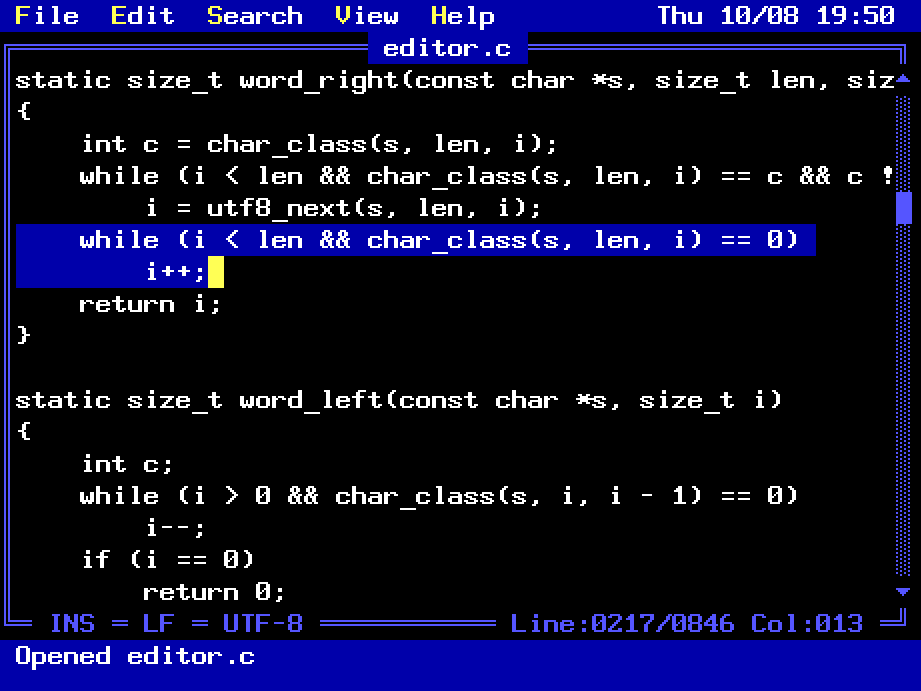
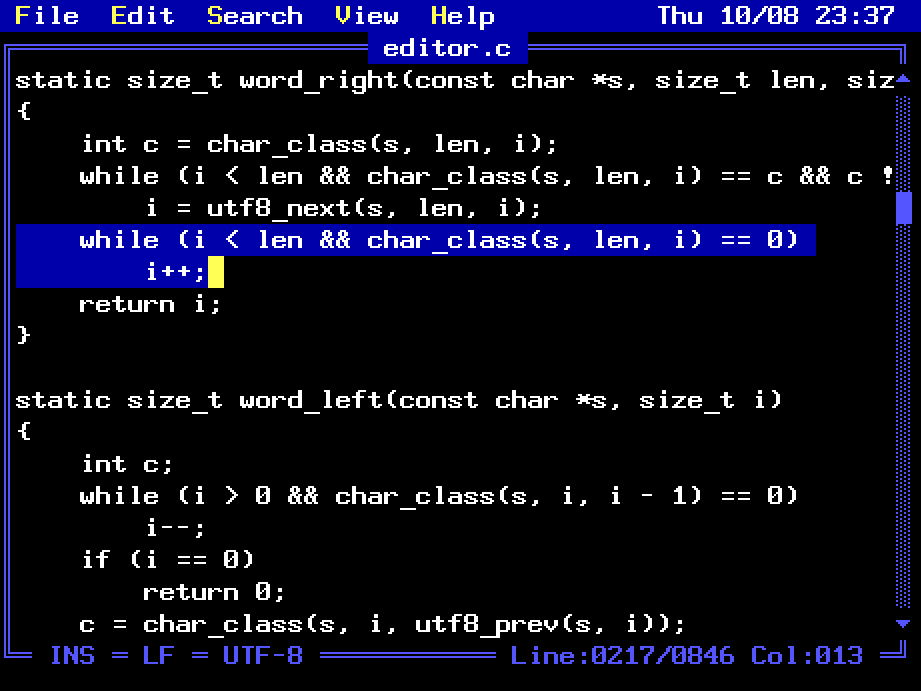
Remove the status bar, and keep the window from cutting off the layout
The bottom row's shortcut hints were cut off on all but wide windows,
and the keys are all listed under Help. The row is gone: the editor
window now reaches the bottom of the screen, menus and dialogs get the
row back, and Find/Replace sit just above the window's bottom border.
Messages ("Not found", "Saved", ...) take over the bottom border,
inverse like the title, until they time out, and loading progress
joins INS/LF/UTF-8 there. Parts of the border that don't fit beside the
line and column are left out whole instead of being overwritten.

The grid is never smaller than 20x8 cells, so a smaller window lost its
bottom rows. The window's minimum size is now 20x8 cells of the chosen
text size, instead of a fixed 320x200 that fit only 6 rows of Large
text. A window manager that sizes the window smaller anyway gets the
largest smaller text size that fits, until the window grows again; the
chosen size is still the one saved and checked in the View menu.

The README screenshots are retaken without the status bar.

Changed region(s): [[0.0, 0.8509, 1.0, 1.0], [0.9425, 0.0, 0.9729, 0.0304], [0.8817, 0.0, 0.9121, 0.0304]]

diff --git a/src/ui.c b/src/ui.c
@@ -120,7 +120,7 @@ static TextArea text_area(App *a)
     ta.x = 1 + ta.gutter;
     ta.y = 2;
     ta.w = a->scr.cols - 2 - ta.gutter;
-    ta.h = a->scr.rows - 4;
+    ta.h = a->scr.rows - 3;
     if (ta.w < 1)
         ta.w = 1;
     if (ta.h < 1)
@@ -1056,11 +1056,11 @@ static void draw_window(App *a, TextArea ta)
     Screen *s = &a->scr;
     Editor *ed = &a->ed;
     const Theme *th = a->theme;
-    int i, x, track, tpos, tlen, bottom = s->rows - 2;
-    char title[300], pos[96];
+    int i, x, track, tpos, tlen, bottom = s->rows - 1;
+    char title[300], pos[96], line[300];
 
-    screen_fill(s, 0, 1, s->cols, s->rows - 2, ' ', th->text_fg, th->text_bg);
-    screen_frame(s, 0, 1, s->cols, s->rows - 2, 1, th->frame, th->text_bg);
+    screen_fill(s, 0, 1, s->cols, s->rows - 1, ' ', th->text_fg, th->text_bg);
+    screen_frame(s, 0, 1, s->cols, s->rows - 1, 1, th->frame, th->text_bg);
 
     /* title, inverse, centered on the top border */
     str_copy(title, sizeof title, " ");
@@ -1079,51 +1079,44 @@ static void draw_window(App *a, TextArea ta)
         screen_put(s, s->cols - 1, ta.y + 1 + i,
                    i >= tpos && i < tpos + tlen ? 0x2588 : 0x2591, th->frame, th->text_bg);
 
-    /* status in the bottom border, TempleOS style */
-    {
+    /* status in the bottom border, TempleOS style. A message takes all
+     * of it, inverse like the title, until it times out. */
+    if (a->msg[0] && now_ms() < a->msg_until) {
+        str_copy(line, sizeof line, " ");
+        str_cat(line, sizeof line, a->msg);
+        str_cat(line, sizeof line, " ");
+        screen_puts(s, 2, bottom, line, th->title_fg, th->title_bg, s->cols - 4);
+    } else {
+        /* the position on the right, and on the left what fits of the mode,
+         * line ends, encoding and loading progress */
+        const char *left[4];
+        char load[32];
         size_t len;
         const char *l = ed_line(ed, ed->cy, &len);
         long col = ed_disp_col(ed, l, len, ed->cx) + 1;
+        int end;
         sprintf(pos, " Line:%04ld/%04ld%s Col:%03ld ", ed->cy + 1, ed_lines(ed),
                 buf_loading(ed->buf) ? "+" : "", col);
+        i = utf8_width(pos);
+        if (i > s->cols - 4)
+            i = s->cols - 4;
+        end = s->cols - 2 - i;
+        screen_puts(s, end, bottom, pos, th->frame, th->text_bg, i);
+        left[0] = ed->overwrite ? " OVR " : " INS ";
+        left[1] = ed->buf->crlf ? " CRLF " : " LF ";
+        left[2] = " UTF-8 ";
+        left[3] = NULL;
+        if (buf_loading(ed->buf)) {
+            sprintf(load, " Loading %d%% ", (int)(buf_load_progress(ed->buf) * 100));
+            left[3] = load;
+        }
+        /* each part and a border cell after it */
+        for (i = 0, x = 2; i < 4 && left[i] && x + utf8_width(left[i]) < end; i++)
+            x += screen_puts(s, x, bottom, left[i], th->frame, th->text_bg,
+                             utf8_width(left[i])) + 1;
     }
-    i = utf8_width(pos);
-    screen_puts(s, s->cols - 2 - i, bottom, pos, th->frame, th->text_bg, i);
-    x = 2;
-    x += screen_puts(s, x, bottom, ed->overwrite ? " OVR " : " INS ", th->frame, th->text_bg, 5);
-    x++;
-    x += screen_puts(s, x, bottom, ed->buf->crlf ? " CRLF " : " LF ", th->frame, th->text_bg, 6);
-    x++;
-    screen_puts(s, x, bottom, " UTF-8 ", th->frame, th->text_bg, 7);
 
     draw_text(a, ta);
-}
-
-static void draw_status(App *a)
-{
-    Screen *s = &a->scr;
-    const Theme *th = a->theme;
-    int y = s->rows - 1, x = 1;
-    static const char *const hints[] = {
-        "F1", "Help", "F10", "Menu", "^O", "Open", "^S", "Save",
-        "^F", "Find", "^Z", "Undo", "^Q", "Quit", NULL
-    };
-
-    screen_fill(s, 0, y, s->cols, 1, ' ', th->bar_fg, th->bar_bg);
-    if (a->msg[0] && now_ms() < a->msg_until) {
-        screen_puts(s, 1, y, a->msg, th->bar_fg, th->bar_bg, s->cols - 2);
-    } else {
-        int i;
-        for (i = 0; hints[i] && x < s->cols - 20; i += 2) {
-            x += screen_puts(s, x, y, hints[i], th->bar_hot, th->bar_bg, 8);
-            x += screen_puts(s, x + 1, y, hints[i + 1], th->bar_fg, th->bar_bg, 8) + 3;
-        }
-    }
-    if (buf_loading(a->ed.buf)) {
-        char p[32];
-        int n = sprintf(p, "Loading %d%% ", (int)(buf_load_progress(a->ed.buf) * 100));
-        screen_puts(s, s->cols - n - 1, y, p, th->bar_hot, th->bar_bg, n);
-    }
 }
 
 /* The clock at the right end of the menu bar, if there is room for it. */
@@ -1138,10 +1131,10 @@ static void draw_clock(App *a)
         screen_puts(&a->scr, x, 0, clock, a->theme->bar_fg, a->theme->bar_bg, 32);
 }
 
-/* Fits the menus to the screen. They stay above the status bar. */
+/* Fits the menus to the screen. */
 static void layout_menus(App *a)
 {
-    menu_layout(&a->menu, a->scr.cols, a->scr.rows - 1);
+    menu_layout(&a->menu, a->scr.cols, a->scr.rows);
 }
 
 void app_draw(App *a)
@@ -1152,7 +1145,6 @@ void app_draw(App *a)
     if (a->ed.follow)
         ed_scroll_to_cursor(&a->ed);
     draw_window(a, ta);
-    draw_status(a);
     menu_draw(&a->menu, &a->scr, a->theme, cmd_state, a);
     draw_clock(a);
     dlg_draw(&a->dlg, &a->scr, a->theme, a->blink_on);

diff --git a/src/screen.c b/src/screen.c
@@ -31,7 +31,6 @@ int screen_init(Screen *s, int size)
     SDL_Rect usable;
 
     memset(s, 0, sizeof *s);
-    s->size = size;
     SDL_SetHint(SDL_HINT_RENDER_SCALE_QUALITY, "0");
     /* about 80x25 cells of the chosen size, within 90% of the display */
     w = 80 * sizes[size].font->w * sizes[size].mult;
@@ -47,13 +46,12 @@ int screen_init(Screen *s, int size)
                               SDL_WINDOW_RESIZABLE | SDL_WINDOW_ALLOW_HIGHDPI);
     if (!s->win)
         return -1;
-    SDL_SetWindowMinimumSize(s->win, 320, 200);
     s->ren = SDL_CreateRenderer(s->win, -1, SDL_RENDERER_ACCELERATED);
     if (!s->ren)
         s->ren = SDL_CreateRenderer(s->win, -1, SDL_RENDERER_SOFTWARE);
     if (!s->ren)
         return -1;
-    screen_layout(s);
+    screen_set_size(s, size);
     return 0;
 }
 
@@ -109,16 +107,22 @@ void screen_layout(Screen *s)
     s->hidpi = s->win_w > 0 ? (s->out_w + s->win_w / 2) / s->win_w : 1;
     if (s->hidpi < 1)
         s->hidpi = 1;
-    s->font = sizes[s->size].font;
-    s->scale = sizes[s->size].mult * s->hidpi;
-    s->cw = s->font->w;
-    s->ch = s->font->h;
-    cols = s->out_w / (s->cw * s->scale);
-    rows = s->out_h / (s->ch * s->scale);
-    if (cols < 20)
-        cols = 20;
-    if (rows < 8)
-        rows = 8;
+    /* the chosen size, or the largest smaller one whose grid fits, for a
+     * window manager that makes the window smaller than its minimum */
+    for (s->shown = s->size; ; s->shown--) {
+        s->font = sizes[s->shown].font;
+        s->scale = sizes[s->shown].mult * s->hidpi;
+        s->cw = s->font->w;
+        s->ch = s->font->h;
+        cols = s->out_w / (s->cw * s->scale);
+        rows = s->out_h / (s->ch * s->scale);
+        if (s->shown == 0 || (cols >= MIN_COLS && rows >= MIN_ROWS))
+            break;
+    }
+    if (cols < MIN_COLS)
+        cols = MIN_COLS;
+    if (rows < MIN_ROWS)
+        rows = MIN_ROWS;
 
     if (cols != s->cols || rows != s->rows || !s->tex ||
         s->fb_w != cols * s->cw || s->fb_h != rows * s->ch) {
@@ -150,6 +154,8 @@ void screen_set_size(Screen *s, int size)
     if (size >= SIZE_COUNT)
         size = SIZE_COUNT - 1;
     s->size = size;
+    SDL_SetWindowMinimumSize(s->win, MIN_COLS * sizes[size].font->w * sizes[size].mult,
+                             MIN_ROWS * sizes[size].font->h * sizes[size].mult);
     screen_layout(s);
 }
 

diff --git a/src/screen.h b/src/screen.h
@@ -26,6 +26,11 @@ enum { TCUR_NONE, TCUR_INSERT, TCUR_OVERWRITE };
 /* Text sizes. */
 enum { SIZE_SMALL, SIZE_NORMAL, SIZE_LARGE, SIZE_COUNT };
 
+/* The smallest grid the UI is laid out for. A smaller window gets the
+ * grid cut off at its right and bottom edges. */
+#define MIN_COLS 20
+#define MIN_ROWS 8
+
 typedef struct Cell {
     unsigned long ch;
     unsigned char fg, bg, cur;
@@ -36,7 +41,9 @@ typedef struct Screen {
     SDL_Renderer *ren;
     SDL_Texture *tex;
     const Font *font;
-    int size;               /* SIZE_* */
+    int size;               /* SIZE_*, as chosen */
+    int shown;              /* the size drawn: smaller while the chosen
+                               one does not fit MIN_COLS x MIN_ROWS */
     int hidpi;              /* output pixels per window unit */
     int scale;              /* output pixels per font pixel */
     int cols, rows;
@@ -62,6 +69,7 @@ int screen_init(Screen *s, int size);
 void screen_quit(Screen *s);
 /* Recomputes the grid after a resize or text size change. */
 void screen_layout(Screen *s);
+/* Chooses the text size, and the smallest window that fits a grid of it. */
 void screen_set_size(Screen *s, int size);
 
 /* Drawing. Cells outside the grid are ignored. */

diff --git a/src/dialog.c b/src/dialog.c
@@ -266,11 +266,11 @@ static void resize(Dialog *d, int w, int h)
 }
 
 /* Sizes the dialog to fit the screen, between its smallest and full size,
- * and centers it (or puts it above the status bar). */
+ * and centers it (or puts it above the window's bottom border). */
 static void place(Dialog *d, const Screen *s)
 {
     int w = d->max_w < s->cols - 4 ? d->max_w : s->cols - 4;
-    int h = d->max_h < s->rows - 4 ? d->max_h : s->rows - 4;
+    int h = d->max_h < s->rows - 3 ? d->max_h : s->rows - 3;
     if (w < d->min_w)
         w = d->min_w;
     if (h < d->min_h)
@@ -280,7 +280,7 @@ static void place(Dialog *d, const Screen *s)
     d->x = (s->cols - d->w) / 2;
     if (d->x < 0)
         d->x = 0;
-    d->y = d->at_bottom ? s->rows - d->h - 2 : (s->rows - d->h) / 2;
+    d->y = d->at_bottom ? s->rows - d->h - 1 : (s->rows - d->h) / 2;
     if (d->y < 1)
         d->y = 1;
 }

diff --git a/src/theme.h b/src/theme.h
@@ -11,7 +11,7 @@ typedef struct Theme {
     unsigned char sel_fg, sel_bg;       /* selection, highlighted item */
     unsigned char frame;                /* borders and scrollbar */
     unsigned char title_fg, title_bg;   /* window and dialog titles */
-    unsigned char bar_fg, bar_bg, bar_hot;  /* menu bar and status bar */
+    unsigned char bar_fg, bar_bg, bar_hot;  /* menu bar */
     unsigned char hot, sel_hot;         /* hotkey letters */
     unsigned char disabled, lnum, cur_lnum;
     unsigned char special_fg, special_bg, special_sel_bg;  /* ^X controls */

diff --git a/src/dialog.h b/src/dialog.h
@@ -42,7 +42,7 @@ typedef struct Dialog {
     int max_w, max_h;       /* the size it was built at, and the smallest it */
     int min_w, min_h;       /* shrinks to on a small screen (the same unless
                                the owner lowers them) */
-    int at_bottom;          /* sit above the status bar, not centered */
+    int at_bottom;          /* sit above the bottom border, not centered */
     char title[64];
     Widget wd[24];
     int n, focus;

diff --git a/src/ui.h b/src/ui.h
@@ -26,7 +26,8 @@ typedef struct App {
     int pending;            /* action waiting for "save changes?" */
     char pending_path[4096];
 
-    char msg[256];          /* status bar message, shown until msg_until */
+    char msg[256];          /* message in the window's bottom border,
+                               shown until msg_until */
     unsigned long msg_until;
 
     int blink_on;

diff --git a/README.md b/README.md
@@ -140,6 +140,10 @@ Settings are changed from the menus and remembered across sessions in
 All three are multiplied by the display's HiDPI factor, so the pixels stay
 crisp and square.
 
+The window can't be made smaller than 20×8 cells of the chosen size. A
+window manager that sizes it smaller anyway (a tiling one, say) gets the
+next smaller size that fits, until the window is big enough again.
+
 ### Character set
 
 Files are edited as UTF-8, and any bytes, valid or not, are saved back
